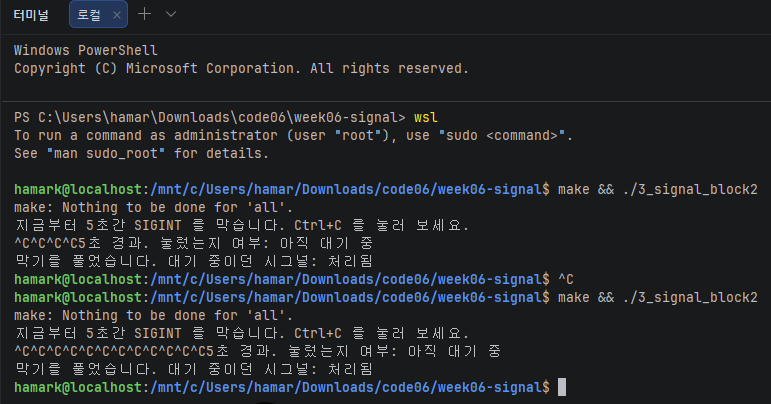
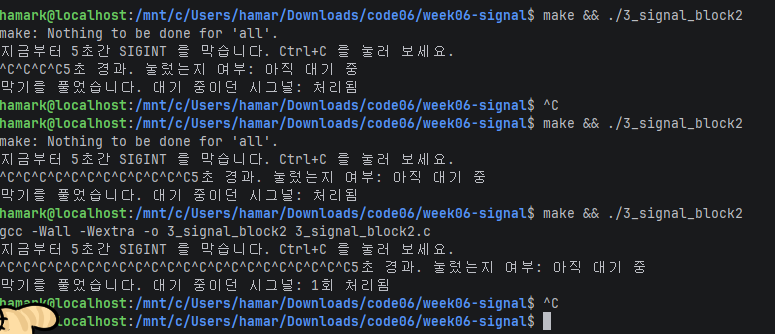
과제3: 플래그를 카운터로 바꿔 전달 횟수 확인 + 캡처 교체

Changed region(s): [[0.0, 0.0, 0.9961, 1.0]]

diff --git a/3_signal_block2.c b/3_signal_block2.c
@@ -17,7 +17,7 @@
 
 static volatile sig_atomic_t got = 0;
 
-static void handler(int sig) { (void)sig; got = 1; }
+static void handler(int sig) { (void)sig; got += 1; }
 
 int main(void)
 {
@@ -44,6 +44,6 @@ int main(void)
     /* 원래 마스크로 되돌린다 — 이 순간 대기 중이던 SIGINT 가 전달된다. */
     sigprocmask(SIG_SETMASK, &old, NULL);   /* 세 번째 인자 NULL: 지금 마스크(=old)는 저장할 필요 없다 */
 
-    printf("막기를 풀었습니다. 대기 중이던 시그널: %s\n", got ? "처리됨" : "없었음");
+    printf("막기를 풀었습니다. 대기 중이던 시그널: %d회 %s\n", got, got ? "처리됨" : "없었음");
     return 0;
 }
